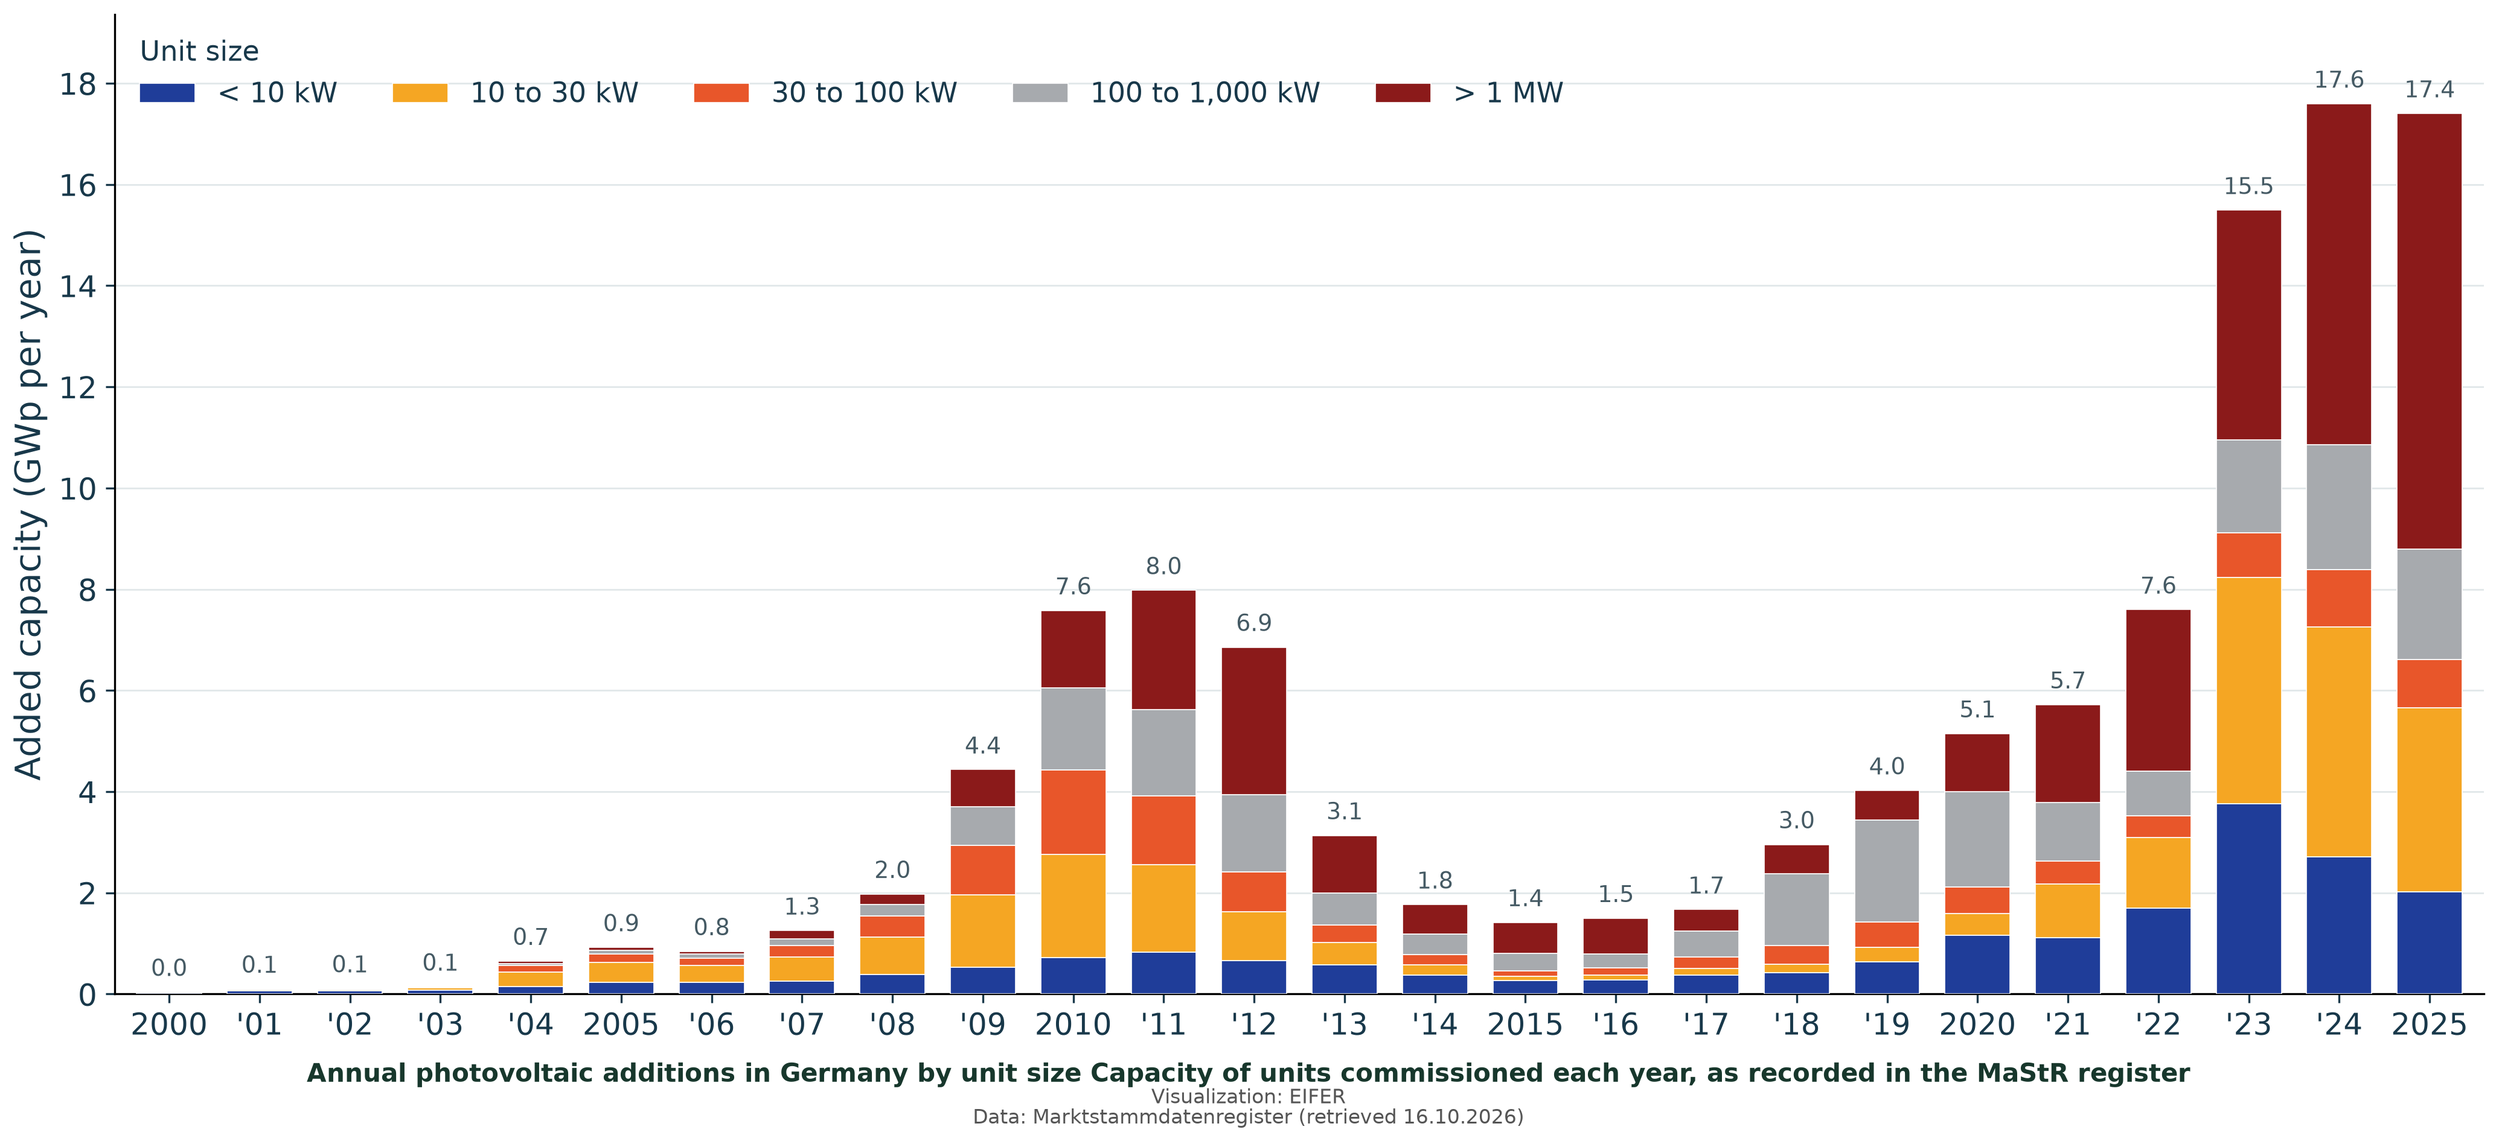
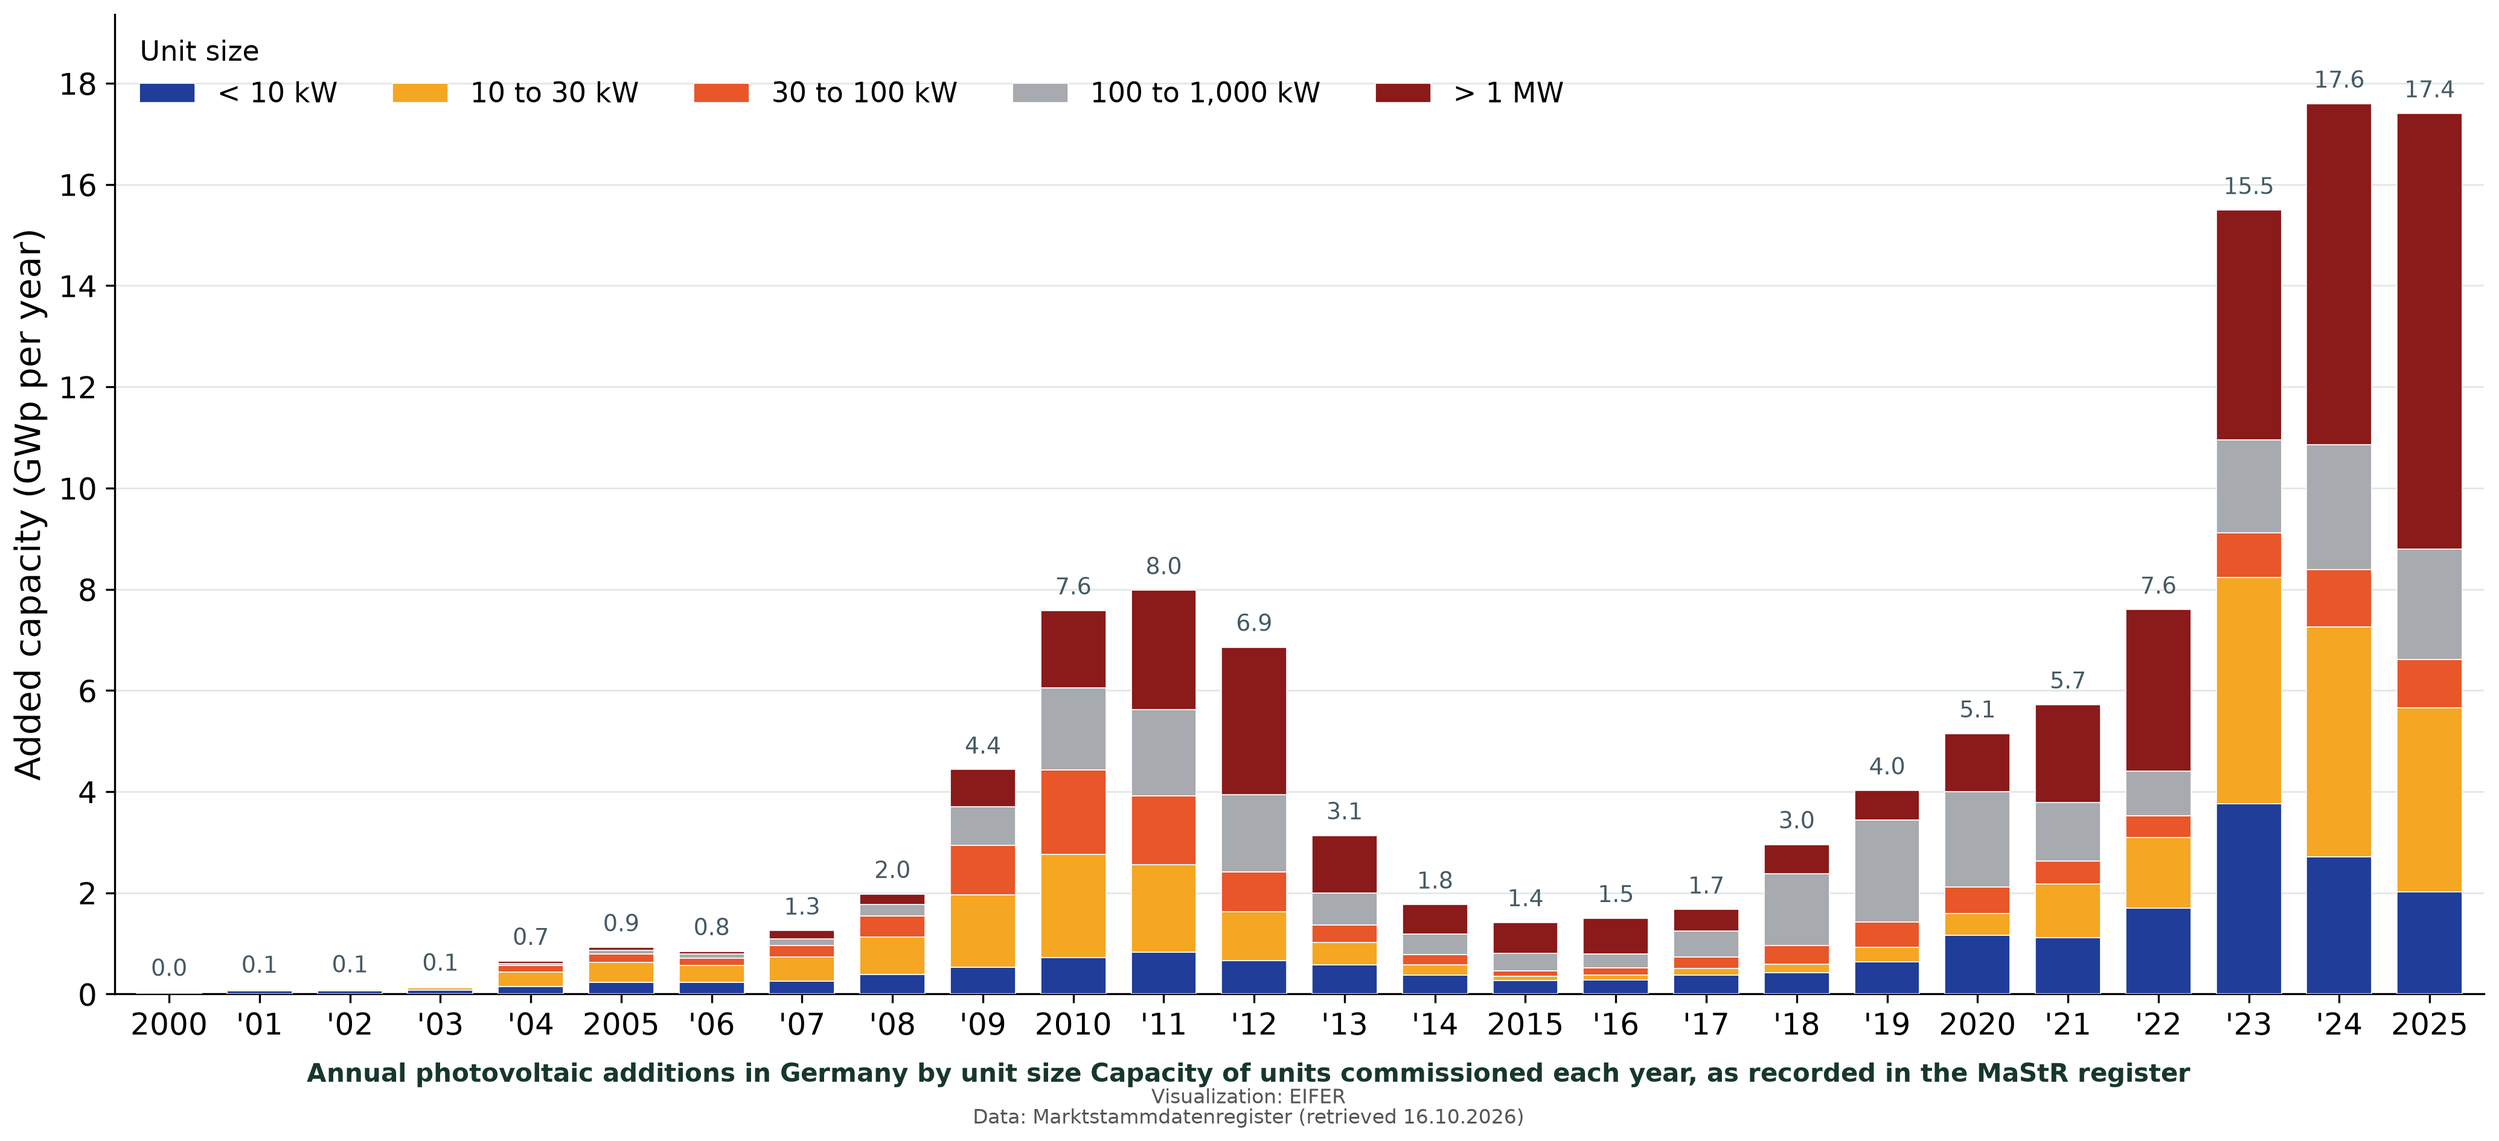
Refresh figures and LaTeX report

diff --git a/code/figures/germany/external_figures.py b/code/figures/germany/external_figures.py
@@ -12,6 +12,7 @@ import matplotlib
 matplotlib.use("Agg")
 import matplotlib.pyplot as plt
 import numpy as np
+from matplotlib.patches import FancyArrowPatch
 
 from project_paths import FINAL_OUTPUTS, INTERMEDIATE_OUTPUTS
 from figures.shared.plot_helpers import figure_name
@@ -23,16 +24,29 @@ WORK = INTERMEDIATE_OUTPUTS / "external_figures"
 SOURCE = "Energy-Charts.info; values checked against the selected chart view"
 
 MIX_TOTAL = 497.5
+# Energy-Charts' 2025 total view reports an energetically corrected total of
+# 497.5 TWh.  The displayed source series sum to 494.68 TWh; the difference
+# is included in the explicit Others slice rather than left as an unnamed
+# residual.  Others contains the small source categories listed below.
 MIX = [
     ("Waste renewable", 4.23, "#513000"), ("Hydro run-of-river", 15.43, "#1409cc"),
     ("Biomass grid feed-in", 36.06, "#2c962a"), ("Biomass self-consumption", 4.36, "#4cc75c"),
     ("Wind offshore", 26.07, "#9daf90"), ("Wind onshore", 105.10, "#c3d6b6"),
     ("Solar EEG grid feed-in", 67.94, "#facc5b"), ("Solar self-consumption", 19.84, "#fcea66"),
-    ("Lignite grid feed-in", 67.13, "#978168"), ("Hard coal grid feed-in", 26.16, "#323232"),
-    ("Coal-derived gas", 4.15, "#dcc37b"), ("Gas grid feed-in", 49.49, "#f29543"),
-    ("Gas industrial own production", 29.84, "#fac778"), ("Other", 9.42, "#9882b3"),
+    ("Lignite grid feed-in", 67.19, "#978168"), ("Hard coal grid feed-in", 26.60, "#323232"),
+    ("Coal-derived gas", 4.15, "#dcc37b"), ("Gas grid feed-in", 49.54, "#f29543"),
+    ("Gas industrial own production", 29.78, "#fac778"),
     ("Waste non-renewable", 4.70, "#523202"), ("Import balance", 18.81, "#78197f"),
 ]
+
+# Small official Energy-Charts series omitted from the main labels.  The
+# total-view correction is included so the plotted slices sum exactly to the
+# official 497.5 TWh centre value.
+MIX.append((
+    "Other",
+    round(MIX_TOTAL - sum(v for _, v, _ in MIX), 2),
+    "#e3e3e3",
+))
 
 POWER = [
     ("Hydro", 5.3, "#0000ae"), ("Hydro pumped storage", 9.9, "#afc8ff"),
@@ -65,46 +79,39 @@ MV_LOW, MV_MID, MV_HIGH = 4.51 - .715, 4.0, 4.51 - .358
 def _save(fig, metric, period, *, dpi=300):
     OUT.mkdir(parents=True, exist_ok=True)
     target = OUT / figure_name("germany", "all", metric, "chart", period)
-    fig.savefig(target, dpi=dpi, bbox_inches="tight", facecolor="white")
+    temporary = target.with_name(target.name + ".tmp")
+    fig.savefig(temporary, format="png", dpi=dpi, bbox_inches="tight", facecolor="white")
+    temporary.replace(target)
     plt.close(fig)
     return target
 
 
 def electricity_mix():
-    # Preserve the approved final donut once exported.
-    preserved = OUT / "Figure_electricity-mix_germany_497-5-TWh.png"
-    if preserved.exists():
-        print(f"Preserved existing electricity-mix figure: {preserved}")
-        return preserved
-
-    remainder = round(MIX_TOTAL - sum(v for _, v, _ in MIX), 2)
-    rows = MIX + [("Unlabelled remainder", remainder, "#e3e3e3")]
-    fig, ax = plt.subplots(figsize=(14, 9), dpi=300)
+    rows = MIX
+    fig, ax = plt.subplots(figsize=(14, 7.6), dpi=300)
     wedges, _ = ax.pie([v for _, v, _ in rows], colors=[c for _, _, c in rows],
-                       startangle=90, counterclock=False, radius=1,
+                       startangle=90, counterclock=False, radius=1.06,
                        wedgeprops={"width": .43, "edgecolor": "white", "linewidth": 1.5})
     labels = {1: [], -1: []}
     label_y = {
-        "Import balance": 1.48,
-        "Waste non-renewable": 1.02,
-        "Other": .56,
-        "Gas industrial own production": .10,
-        "Gas grid feed-in": -.36,
-        "Coal-derived gas": -.82,
-        "Hard coal grid feed-in": -1.18,
-        "Lignite grid feed-in": -1.54,
-        "Solar self-consumption": -1.88,
-        "Waste renewable": 1.48,
-        "Hydro run-of-river": 1.08,
-        "Biomass grid feed-in": .68,
-        "Biomass self-consumption": .28,
-        "Wind offshore": -.12,
-        "Wind onshore": -.78,
-        "Solar EEG grid feed-in": -1.58,
+        "Import balance": 1.25,
+        "Waste non-renewable": .85,
+        "Other": 1.65,
+        "Gas industrial own production": .45,
+        "Gas grid feed-in": .05,
+        "Coal-derived gas": -.35,
+        "Hard coal grid feed-in": -.75,
+        "Lignite grid feed-in": -1.15,
+        "Solar self-consumption": -1.55,
+        "Waste renewable": 1.65,
+        "Hydro run-of-river": 1.25,
+        "Biomass grid feed-in": .85,
+        "Biomass self-consumption": .45,
+        "Wind offshore": .05,
+        "Wind onshore": -.45,
+        "Solar EEG grid feed-in": -1.35,
     }
     for wedge, (name, value, color) in zip(wedges, rows):
-        if name == "Unlabelled remainder":
-            continue
         angle = np.deg2rad((wedge.theta1 + wedge.theta2) / 2)
         x, y = np.cos(angle), np.sin(angle)
         labels[1 if x >= 0 else -1].append((y, x, name, value, color))
@@ -112,13 +119,23 @@ def electricity_mix():
         items.sort(reverse=True)
         ys = [label_y[name] for _, _, name, _, _ in items]
         for y_label, (y, x, name, value, color) in zip(ys, items):
-            ax.annotate(f"{name}\n{value:.2f} TWh | {value / MIX_TOTAL:.1%}",
-                        xy=(x, y / 1.15), xytext=(1.35 * side, y_label),
-                        ha="left" if side > 0 else "right", va="center", fontsize=9,
-                        arrowprops={"arrowstyle": "-", "color": color})
-    ax.text(0, .08, "497.5", ha="center", va="center", fontsize=38, color="#555")
-    ax.text(0, -.12, "TWh", ha="center", va="center", fontsize=32, color="#555")
-    ax.set(aspect="equal", xlim=(-2.35, 2.35), ylim=(-2.05, 2.05)); ax.axis("off")
+            text_x = 1.58 * side
+            # Draw the connector independently of the text.  This fixes its
+            # endpoint at the centre of the inward-facing text edge instead
+            # of letting Matplotlib choose the top or bottom of a multiline
+            # annotation bounding box.
+            ax.add_patch(FancyArrowPatch(
+                (1.02 * x, 1.02 * y), (text_x, y_label),
+                arrowstyle="-", color=color, linewidth=1.15,
+                shrinkA=0, shrinkB=0,
+                connectionstyle=f"arc3,rad={0.12 * side}",
+            ))
+            ax.text(text_x, y_label,
+                    f"{name}\n{value:.2f} TWh | {value / MIX_TOTAL:.1%}",
+                    ha="left" if side > 0 else "right", va="center", fontsize=9)
+    ax.text(0, .12, "497.5", ha="center", va="center", fontsize=38, color="#555")
+    ax.text(0, -.18, "TWh", ha="center", va="center", fontsize=32, color="#555")
+    ax.set(aspect="equal", xlim=(-2.45, 2.45), ylim=(-1.82, 1.82)); ax.axis("off")
     target = _save(fig, "electricity-mix", "497-5-TWh", dpi=300)
     WORK.mkdir(parents=True, exist_ok=True)
     with (WORK / "electricity_mix.csv").open("w", newline="", encoding="utf-8") as handle:
@@ -162,15 +179,18 @@ def revenue_figures():
     years = np.array(sorted(FIT)); fyears = np.array(sorted(FULL)); future = np.arange(2027, 2031)
     targets = []
     fig, (ax, gap) = plt.subplots(2, 1, figsize=(10.5, 8), sharex=True, dpi=300, gridspec_kw={"height_ratios": [2.2, 1]})
-    all_years = np.arange(2010, 2031); sell = np.array([FIT[y] for y in years] + [MV_MID] * 4); retail = np.array([RETAIL[y] for y in years] + [RETAIL[2026]] * 4)
-    ax.plot(years, [RETAIL[y] for y in years], "o-", label="Household electricity price")
-    ax.plot(all_years[-5:], retail[-5:], "--", label="Price held constant")
-    ax.plot(all_years, sell, "o-", label="Selling tariff / scenario")
+    all_years = years
+    retail = np.array([RETAIL[y] for y in years])
+    sell = np.array([FIT[y] for y in years])
+    ax.plot(years, retail, "o-", color="#2f78b7",
+            label="Household electricity price")
+    ax.plot(years, sell, "o-", color="#2ca02c",
+            label="PV selling tariff")
     ax.set_ylabel("ct/kWh"); ax.grid(alpha=.3); ax.legend(fontsize=8)
-    diff = retail - sell; gap.bar(all_years, diff, color=np.where(diff >= 0, "#4a90d9", "#7fb519")); gap.axhline(0, color="black", lw=.8); gap.set(xlabel="Year", ylabel="Retail − selling\n[ct/kWh]"); gap.grid(alpha=.2)
+    diff = retail - sell; gap.bar(all_years, diff, color=np.where(diff >= 0, "#4a90d9", "#7fb519")); gap.axhline(0, color="black", lw=.8); gap.set(xlabel="Year", ylabel="Retail − selling\n[ct/kWh]"); gap.set_xticks(np.arange(2010, 2027, 2)); gap.grid(alpha=.2)
     add_source_footer(fig, ["Visualization: EIFER", "Data: Bundesnetzagentur (retrieved 16.10.2026)"],
                       title="Household electricity price and PV selling tariff")
-    targets.append(_save(fig, "selling-vs-consuming", "2010-2030"))
+    targets.append(_save(fig, "selling-vs-consuming", "2010-2026"))
 
     # Merge the tariff and revenue information into one figure.  Revenue is
     # calculated from the published tariff anchors; no flat post-support line

diff --git a/latex/pv_figures_report.tex b/latex/pv_figures_report.tex
@@ -100,7 +100,7 @@
 \figslide{NEP B: ground-mounted and rooftop density}{Figure_ground-and-rooftop-density_germany_2024-2037-2045_NEP-B.png}{\begin{itemize}\item Rooftop and ground-mounted PV have different spatial signatures.\item The common scale makes the technologies comparable.\end{itemize}}{Six panels are reconstructed from NEP scenario-B map pages using one shared colour scale. District values are colour-read estimates rather than a published district table; BKG geometries provide the common map frame.}{\href{https://www.netzentwicklungsplan.de/}{NEP 2037--2045, 2025 first draft, scenario B}; \href{https://gdz.bkg.bund.de/index.php/default/digitale-geodaten/verwaltungsgebiete/verwaltungsgebiete-1-250-000-stand-31-12-vg250-31-12.html}{BKG VG250}.}
 \figslide{Historical curtailment by state: grid congestion management (EinsMan)}{Figure_curtailment-einsman_germany_2016-2021.png}{\begin{itemize}\item Curtailment was strongly concentrated in the north: Schleswig-Holstein accounted for 72.3\% of the mapped total in 2016, while Lower Saxony accounted for 45.6\% in 2021.\item The concentration shifted within the north: Schleswig-Holstein's share fell to 32.0\% by 2021 as Lower Saxony became the largest contributor.\item The historical measure combines renewable plants with combined heat and power (CHP), so it is not a PV-only measure.\end{itemize}}{Here, EinsMan means grid congestion management: the temporary reduction of generation when network constraints require it. The figure transcribes BNetzA annual state values for renewable and CHP plants; map labels show each state's share of the national total. Published dashes remain missing, and no values are estimated from colour, neighbouring states or interpolation.}{\href{https://www.bundesnetzagentur.de/DE/Fachthemen/ElektrizitaetundGas/Versorgungssicherheit/Engpassmanagement/start.html}{BNetzA annual congestion-management reports, 2016--2021}.}
 \figslide{Recent all-technology redispatch by state}{Figure_redispatch-reductions-gwh_germany_2023-2025.png}{\begin{itemize}\item The national technology mix is changing: wind accounted for about 51\% of the recorded total in 2023, versus 37\% in 2025; PV rose from about 4\% to 15\%.\item The geographic pattern is consistent with a hypothesis of more wind-related reductions in the north and more solar-related reductions in the south.\item This remains a hypothesis: the source does not cross technology and state.\end{itemize}}{The SMARD CSV is filtered to complete calendar years 2023--2025, grouped by state, and summed in GWh. This recent series covers all technologies. The national technology percentages are calculated separately from SMARD's technology table; the state table is not crossed with technology, so the north--south technology interpretation is not tested by this figure.}{\href{https://www.smard.de/resource/blob/217306/-/data-csv-data.csv}{SMARD monthly data CSV}; \href{https://www.smard.de/page/home/topic-article/211816/213384}{SMARD technology breakdown}; \href{https://www.smard.de/page/home/topic-article/211972/213254/netzengpassmanagement-je-bundesland-und-anrainerstaaten}{SMARD state redispatch information}.}
-\figslide{Household price and PV selling tariff~\textcolor{red}{(ongoing)}}{Figure_selling-vs-consuming_germany_2010-2030.png}{\begin{itemize}\item Household electricity prices and PV selling tariffs move on different paths.\item The long-run tariff decline contrasts with the higher household-price series.\end{itemize}}{A BDEW household-price series is combined with selected EEG/PV tariff anchors on a common year axis. The post-2026 selling-tariff segment is scenario-based; self-consumption, taxes, financing and operating costs are excluded.}{\href{https://www.bundesnetzagentur.de/DE/Fachthemen/ElektrizitaetundGas/ErneuerbareEnergien/EEG_Foerderung/Archiv_VergSaetze/start.html}{BNetzA/EEG tariff archive}; \href{https://www.bdew.de/service/daten-und-grafiken/bdew-strompreisanalyse/}{BDEW household-price series}.}
+\figslide{Household price and PV selling tariff~\textcolor{red}{(ongoing)}}{Figure_selling-vs-consuming_germany_2010-2026.png}{\begin{itemize}\item Household electricity prices and PV selling tariffs move on different paths.\item The long-run tariff decline contrasts with the higher household-price series.\end{itemize}}{A BDEW household-price series is combined with selected EEG/PV tariff anchors on a common year axis. Only observed years through 2026 are shown; self-consumption, taxes, financing and operating costs are excluded.}{\href{https://www.bundesnetzagentur.de/DE/Fachthemen/ElektrizitaetundGas/ErneuerbareEnergien/EEG_Foerderung/Archiv_VergSaetze/start.html}{BNetzA/EEG tariff archive}; \href{https://www.bdew.de/service/daten-und-grafiken/bdew-strompreisanalyse/}{BDEW household-price series}.}
 \figslide{PV capacity by MaStR unit-size band~\textcolor{red}{(ongoing)}}{Figure_additions-by-size_germany_2000-2025.png}{\begin{itemize}\item The sharp 2014 break is consistent with the EEG 2014 reform: lower support and a tighter deployment framework changed project economics.\item From 2015, larger ground-mounted projects also moved toward competitive support, reinforcing the change in the additions profile.\item The chart shows a policy/market break, not a change in PV technology.\end{itemize}}{The dated MaStR full export is filtered to operating PV units, grouped by commissioning year, and assigned to unit-size bands. Capacity is summed within each cohort; the register series shows the timing of the break but does not by itself establish its cause.}{\href{https://www.marktstammdatenregister.de/MaStR/}{Marktstammdatenregister full export}, revision 26.2, snapshot 13 October 2026; \href{https://www.bundesnetzagentur.de/DE/Fachthemen/ElektrizitaetundGas/ErneuerbareEnergien/EEG_Foerderung/Archiv_VergSaetze/artikel.html}{Bundesnetzagentur EEG tariff archive}; \href{https://www.bmwk.de/Redaktion/EN/FAQ/EEG-2017/fragen-und-antworten-zum-eeg-2017.html}{BMWE EEG support and auction framework}.}
 \figslide{EEG-exit cohorts~\textcolor{red}{(ongoing)}}{Figure_eeg-exit_germany_2021-2037.png}{\begin{itemize}\item The figure tracks both the number of affected units and their installed capacity, so large systems matter even when they are few in number.\item The main exit wave arrives around 2030--2033, when early-2010s cohorts reach the end of support.\item Support expiry does not imply closure or repowering.\end{itemize}}{MaStR operating units are linked to commissioning records, grouped by commissioning year, and assigned an illustrative exit year equal to commissioning year plus 21. The two panels report cumulative units and capacity by cohort; the visual style is adapted from the PwC chart.}{\href{https://www.marktstammdatenregister.de/MaStR/}{Marktstammdatenregister operating-unit data}; EEG commissioning records; exit rule: commissioning year + 21; \href{https://www.pwc.de/de/energiewirtschaft/pwc-energyfacts-alte-photvoltaik-anlagen-foerderung.pdf}{PwC, \textit{Alte Photovoltaik-Anlagen: Ende der Förderung in Sicht}}.}
 

diff --git a/code/figures/germany/animation.py b/code/figures/germany/animation.py
@@ -8,6 +8,7 @@ if __package__ in (None, ''):
 
 import argparse
 import json
+import shutil
 from pathlib import Path
 import matplotlib
 matplotlib.use('Agg')
@@ -132,6 +133,13 @@ def main():
     crop_file(gif)
     for path in frame_paths:
         crop_file(path)
+    # Keep presentation-ready annual PNGs alongside the GIF.  These are
+    # separate slide assets, not references to the intermediate work folder.
+    snapshots = args.output / f'snapshots_{args.metric}'
+    snapshots.mkdir(parents=True, exist_ok=True)
+    for path, year in zip(frame_paths, years):
+        snapshot = snapshots / f'Figure_{args.metric}_germany_{year}.png'
+        shutil.copy2(path, snapshot)
     # Keep the PDF preview with the other finished figures, not in work/.
     preview = args.output / f'Figure_{args.metric}-animation_germany_{years[0]}-{years[-1]}.png'
     with Image.open(frame_paths[-1]) as image:
